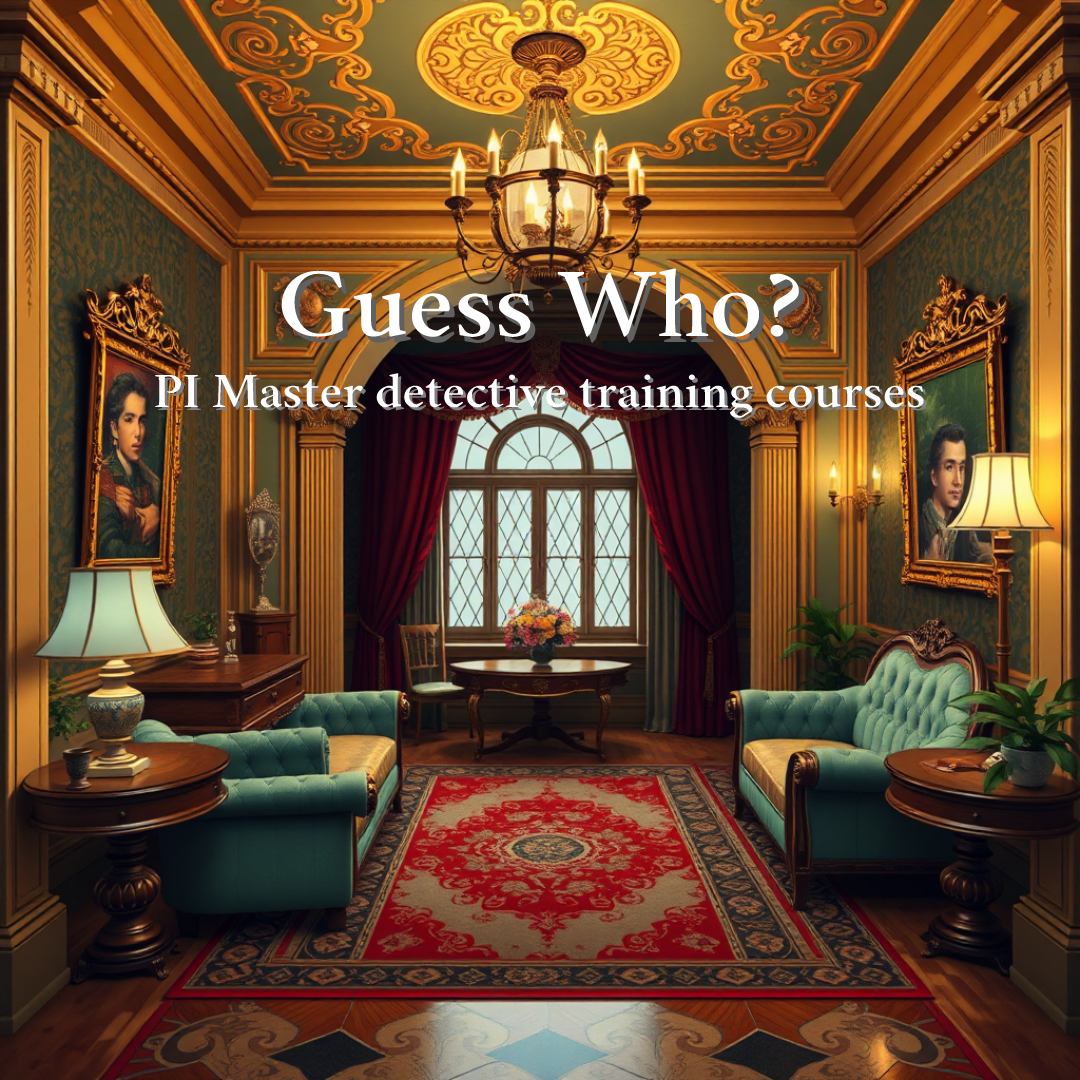
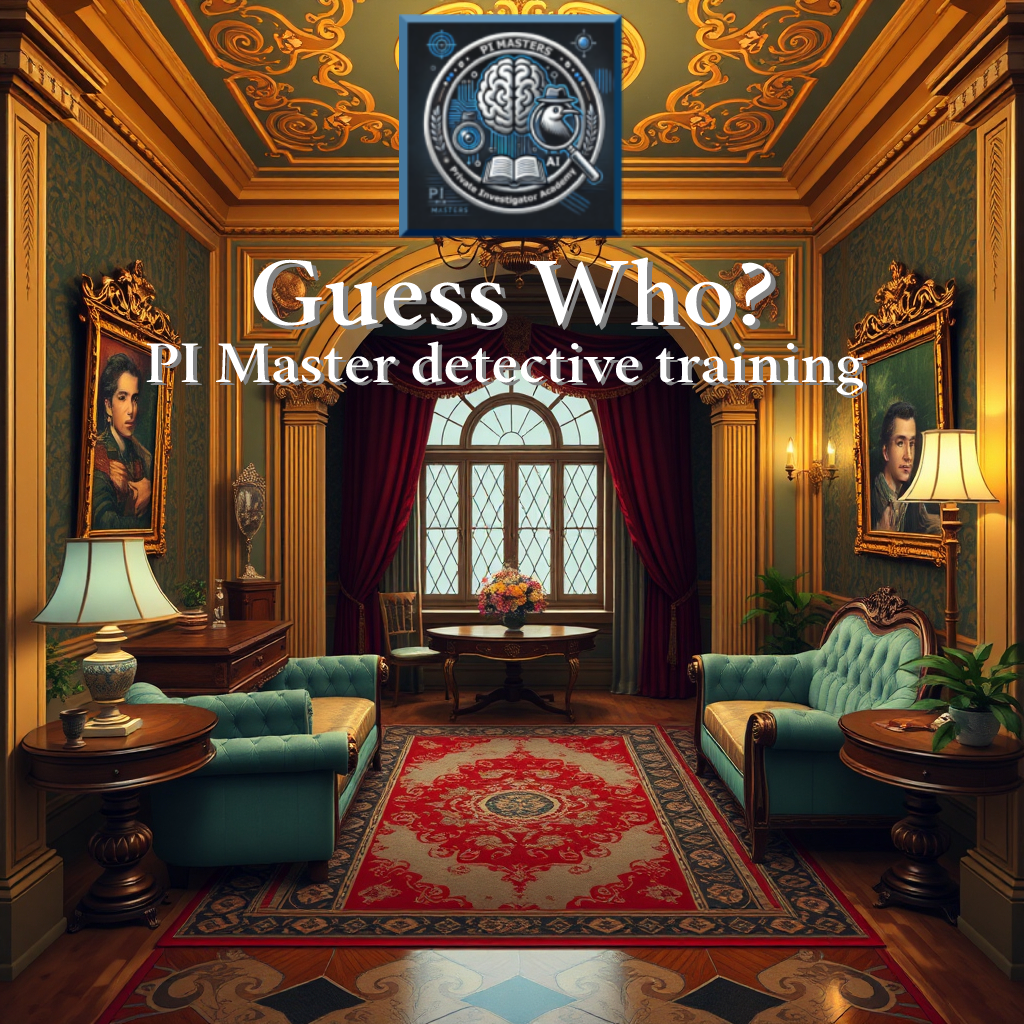
added new image for the start, little tweaks on the controllers and fxml

diff --git a/src/main/java/nz/ac/auckland/se206/controllers/OpeningController.java b/src/main/java/nz/ac/auckland/se206/controllers/OpeningController.java
@@ -275,10 +275,10 @@ public class OpeningController {
   public void handleSkipClick(ActionEvent event) throws IOException {
     openingThread.interrupt();
     KeyFrame f1 = new KeyFrame(Duration.millis(0), e -> endOpening());
-    KeyFrame f3 = new KeyFrame(Duration.millis(400), e -> App.preloadMainLayout(coverRect));
+    KeyFrame f3 = new KeyFrame(Duration.millis(250), e -> App.preloadMainLayout(coverRect));
     KeyFrame f2 =
         new KeyFrame(
-            Duration.millis(1600),
+            Duration.millis(1650),
             e -> {
               try {
                 App.switchMainGame(coverRect);

diff --git a/src/main/java/nz/ac/auckland/se206/controllers/MainLayoutController.java b/src/main/java/nz/ac/auckland/se206/controllers/MainLayoutController.java
@@ -44,7 +44,7 @@ public class MainLayoutController {
   @FXML private Text livingRoomText;
   @FXML private Text musicRoomText;
 
-  private int timeRemaining = 285; // 5 minutes = 300 seconds
+  private int timeRemaining = 284; // 5 minutes = 300 seconds
   private boolean stopTimer = false;
   private MediaPlayer mediaPlayer;
 
